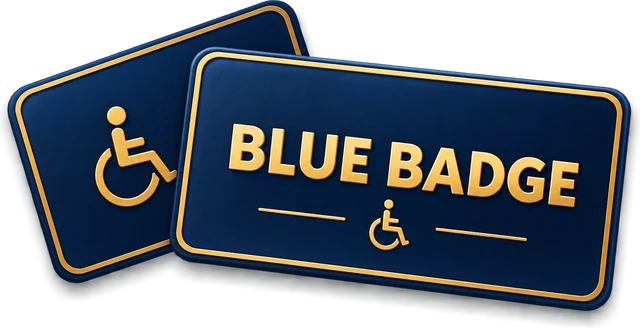
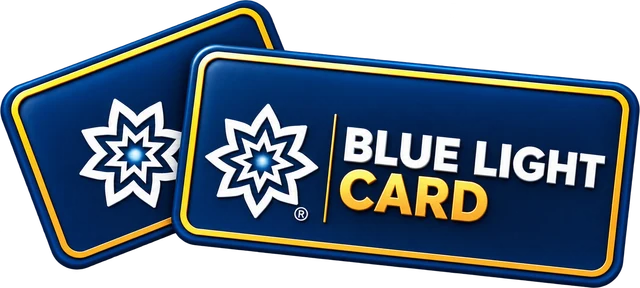
Replace offer card artwork with Blue Light Card image

diff --git a/src/pages/index.html b/src/pages/index.html
@@ -83,7 +83,7 @@ body_class: page-home
         <a class="btn btn-gold" href="/special-offers/">View special offer <svg class="ic" aria-hidden="true"><use href="#i-arrow"/></svg></a>
       </div>
       <div class="offer-note bb-card">
-        <img class="bb-img" src="/assets/images/blue-badge.webp" width="640" height="328" loading="lazy" decoding="async" alt="Blue Badge">
+        <img class="bb-img" src="/assets/images/blue-badge.webp" width="640" height="288" loading="lazy" decoding="async" alt="Blue Light Card">
         <p class="bb-text"><span class="bb-kicker">Blue Badge holders</span><strong class="bb-title">Receive 10% off</strong></p>
         <svg class="bb-leaf" viewBox="0 0 48 32" aria-hidden="true"><path d="M3 29C14 26 30 16 44 3 41 15 30 27 12 28M3 29C16 22 28 14 44 3" fill="none" stroke="currentColor" stroke-width="1.4" stroke-linecap="round"/></svg>
       </div>

diff --git a/index.html b/index.html
@@ -308,7 +308,7 @@
         <a class="btn btn-gold" href="special-offers.html">View special offer <svg class="ic" aria-hidden="true"><use href="#i-arrow"/></svg></a>
       </div>
       <div class="offer-note bb-card">
-        <img class="bb-img" src="assets/images/blue-badge.webp" width="640" height="328" loading="lazy" decoding="async" alt="Blue Badge">
+        <img class="bb-img" src="assets/images/blue-badge.webp" width="640" height="288" loading="lazy" decoding="async" alt="Blue Light Card">
         <p class="bb-text"><span class="bb-kicker">Blue Badge holders</span><strong class="bb-title">Receive 10% off</strong></p>
         <svg class="bb-leaf" viewBox="0 0 48 32" aria-hidden="true"><path d="M3 29C14 26 30 16 44 3 41 15 30 27 12 28M3 29C16 22 28 14 44 3" fill="none" stroke="currentColor" stroke-width="1.4" stroke-linecap="round"/></svg>
       </div>
